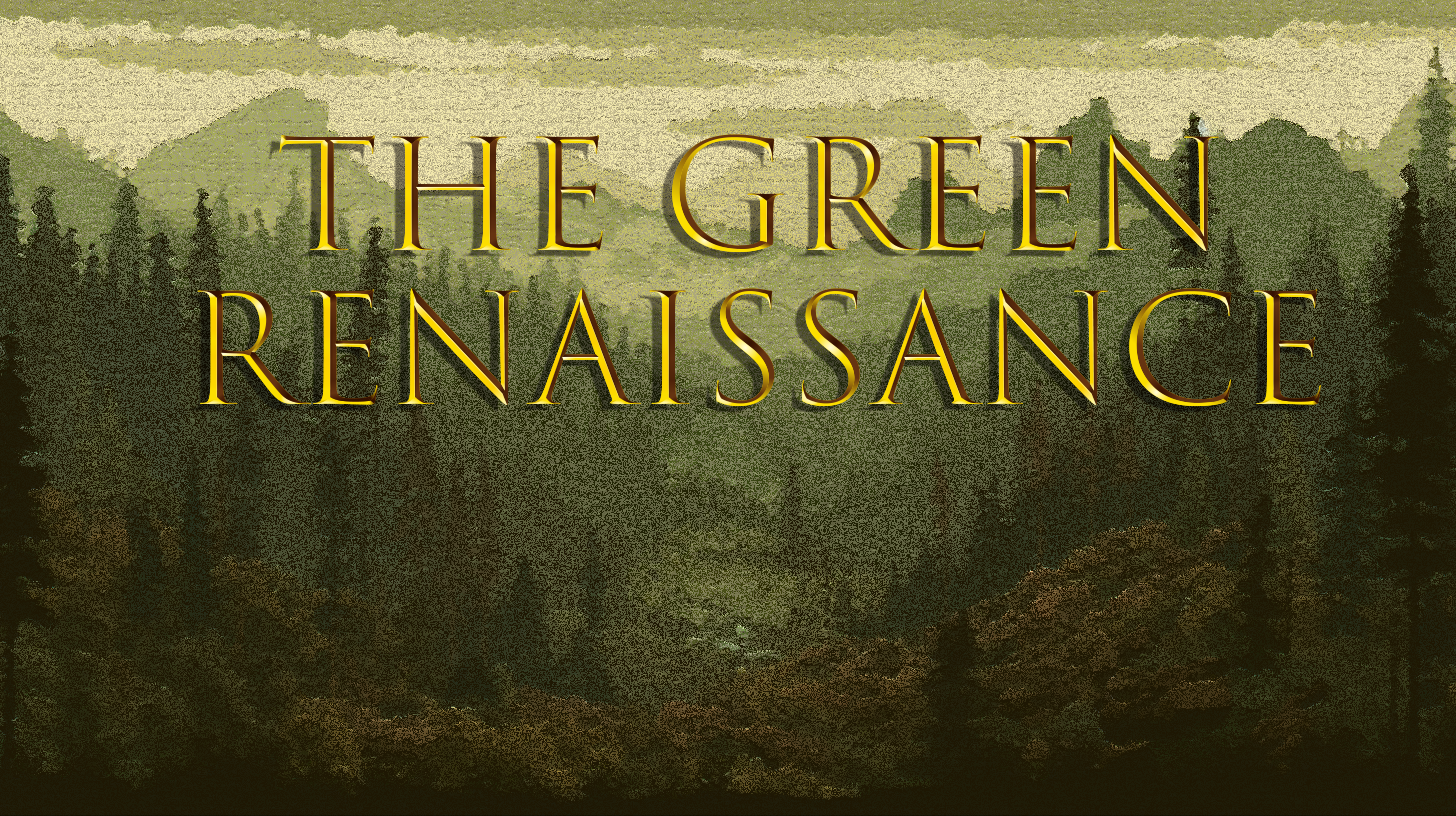
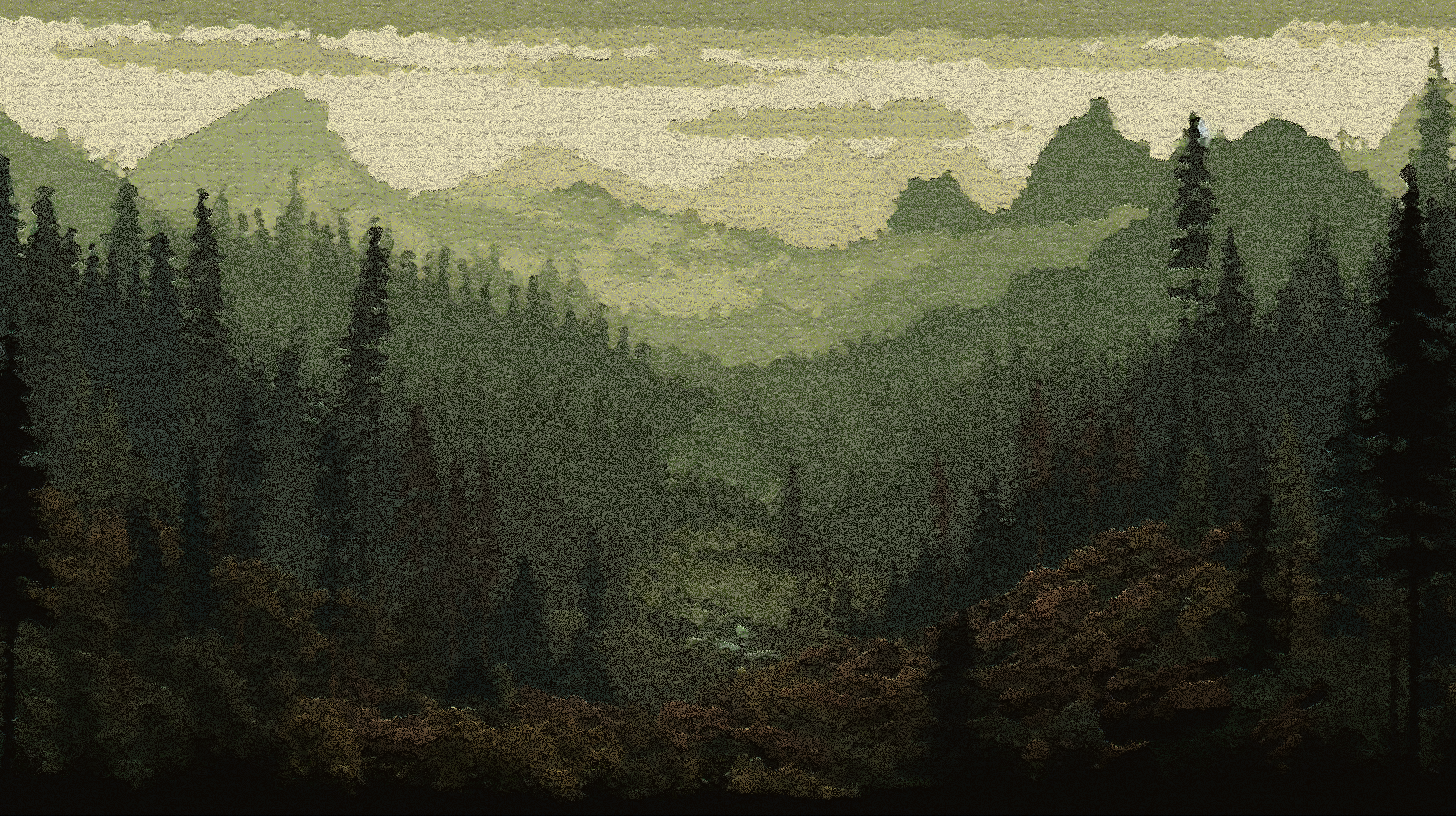
artwork

Changed region(s): [[0.1236, 0.1532, 0.9272, 0.5208]]

diff --git a/docs/lib/__test__/Items.test.js b/docs/lib/__test__/Items.test.js
@@ -1,0 +1,102 @@
+import {createMockP5, simulateKeyDown, simulateKeyPress, simulateKeyUp} from "./Persona5.js";
+import {tick} from "./Tick.js";
+import {Container} from "../../src/controller/Container.js";
+// --------------------------------------
+import {stageGroup, stateCode} from "../../src/model/GameState.js";
+import {PlayBoardLogic, PlayBoardModel} from "../../src/model/PlayBoard.js";
+import {InventoryLogic} from "../../src/model/Inventory.js";
+import {plantTypes, movableTypes, seedTypes, terrainTypes} from "../../src/items/ItemTypes.js";
+import {BoardLogic, BoardModel} from "../../src/model/BoardCells.js";
+
+let p;
+beforeAll(() => {
+    p = createMockP5();
+});
+
+/** @type {Container} */
+let container;
+
+/** @type {Controller} */
+let controller;
+
+/** @type {PlayBoardModel} */
+let playBoard;
+
+beforeEach(()=>{
+    container = new Container(p);
+    controller = container.controller;
+    container.gameState.state = stateCode.PLAY;
+    container.gameState.currentStageGroup = stageGroup.TSUNAMI;
+
+    let stagePackage ={
+        concreteBoardInit: (playBoard) => {
+            playBoard.stageGroup = stageGroup.TSUNAMI;
+            playBoard.stageNumbering = 1;
+            // grid parameters
+            playBoard.gridSize = 16;
+            [playBoard.cellWidth, playBoard.cellHeight] = container.utilityClass.relative2absolute(1 / 20, 4 / 45);
+
+            // board objects array
+            playBoard.boardObjects = new BoardModel(playBoard.gridSize);
+
+            // turn counter
+            playBoard.turn = 1;
+            playBoard.maxTurn = 30;
+
+            playBoard.fertilized = Array.from({length: playBoard.gridSize},
+                () => Array.from({length: playBoard.gridSize}, () => false));
+
+        },
+        setStageInventory: (p5, playBoard) => {
+            InventoryLogic.pushItem2Inventory(p5, plantTypes.PALM, 10, playBoard.gameState.inventory);
+            InventoryLogic.pushItem2Inventory(p5, plantTypes.PINE, 10, playBoard.gameState.inventory);
+            InventoryLogic.pushItem2Inventory(p5, plantTypes.CORN, 10, playBoard.gameState.inventory);
+            InventoryLogic.pushItem2Inventory(p5, plantTypes.ORCHID, 10, playBoard.gameState.inventory);
+            InventoryLogic.pushItem2Inventory(p5, plantTypes.FIRE_HERB, 10, playBoard.gameState.inventory);
+            InventoryLogic.pushItem2Inventory(p5, plantTypes.BAMBOO, 10, playBoard.gameState.inventory);
+            InventoryLogic.pushItem2Inventory(p5, plantTypes.PLUM, 10, playBoard.gameState.inventory);
+            InventoryLogic.pushItem2Inventory(p5, plantTypes.KIKU, 10, playBoard.gameState.inventory);
+
+            InventoryLogic.pushItem2Inventory(p5, seedTypes.PALM, 10, playBoard.gameState.inventory);
+            InventoryLogic.pushItem2Inventory(p5, seedTypes.PINE, 10, playBoard.gameState.inventory);
+            InventoryLogic.pushItem2Inventory(p5, seedTypes.CORN, 10, playBoard.gameState.inventory);
+            InventoryLogic.pushItem2Inventory(p5, seedTypes.ORCHID, 10, playBoard.gameState.inventory);
+            InventoryLogic.pushItem2Inventory(p5, seedTypes.FIRE_HERB, 10, playBoard.gameState.inventory);
+            InventoryLogic.pushItem2Inventory(p5, seedTypes.BAMBOO, 10, playBoard.gameState.inventory);
+            InventoryLogic.pushItem2Inventory(p5, seedTypes.PLUM, 10, playBoard.gameState.inventory);
+            InventoryLogic.pushItem2Inventory(p5, seedTypes.KIKU, 10, playBoard.gameState.inventory);
+        },
+        setStageTerrain: (p5, playBoard) => {
+            for (let i = 0; i < playBoard.gridSize; i++) {
+                for (let j = 0; j < playBoard.gridSize; j++) {
+                    if (j >= 8) {
+                        BoardLogic.setCell(i, j, container.terrainFactory.get(terrainTypes.DESERT)(), playBoard.boardObjects);
+                    } else {
+                        BoardLogic.setCell(i, j, container.terrainFactory.get(terrainTypes.SEA)(), playBoard.boardObjects);
+                    }
+                }
+            }
+            BoardLogic.setCell(8, 15, container.terrainFactory.get(terrainTypes.BASE)(), playBoard.boardObjects);
+            BoardLogic.setCell(7, 8, container.terrainFactory.get(terrainTypes.MOUNTAIN)(), playBoard.boardObjects);
+            BoardLogic.setCell(7, 9, container.terrainFactory.get(terrainTypes.BASE)(), playBoard.boardObjects);
+        },
+        nextTurnItems: (p5, playBoard) =>{},
+        modifyBoard: (p5, playBoard, code) => {},
+        setFloatingWindow: (p5, playBoard) =>{},
+        initAllFloatingWindows: (p5, playBoard)=>{
+            let afw = new Map();
+            container.utilityClass.commonFloatingWindows(p5, afw);
+            playBoard.allFloatingWindows = afw;
+        }
+    }
+    container.gameState.gsf.wiringUp(stagePackage, PlayBoardModel, PlayBoardLogic);
+    let mockPlayBoard = new PlayBoardModel(p, container.gameState);
+    container.gameState.currentStage = /** @type {PlayBoardLike} */ mockPlayBoard;
+    controller.menus[stateCode.PLAY] = mockPlayBoard;
+
+    tick(p, container, 10);
+})
+
+test('test', () => {
+
+})

diff --git a/docs/src/model/StartMenu.js b/docs/src/model/StartMenu.js
@@ -30,6 +30,7 @@ class StartMenuModel {
         this.allFloatingWindows = null;
 
         this.backgroundImg = null;
+        this.titleImg = null;
 
         // fade in fade out render
         this.fade = 0;
@@ -50,6 +51,9 @@ class StartMenuModel {
     }
 
     init() {
+        this.backgroundImg = StartMenuModel.p5.images.get("TitleBackground");
+        this.titleImg = StartMenuModel.p5.images.get("TitleBanner");
+
         let [buttonWidth, buttonHeight] = StartMenuModel.utilityClass.relative2absolute(0.15, 0.07);
         let [buttonX, buttonY] = StartMenuModel.utilityClass.relative2absolute(0.2, 0.6);
         let buttonInter = StartMenuModel.utilityClass.relative2absolute(0.1, 0.1)[1];
@@ -85,7 +89,7 @@ class StartMenuModel {
         this.allFloatingWindows = afw;
     }
 
-    shift2Gamepad(p5){
+    shift2Gamepad(p5) {
         p5.noCursor();
         this.buttons.forEach(button => {
             button.mode = "gamepad";
@@ -127,11 +131,13 @@ class StartMenuRenderer {
      * @param {StartMenuModel} startMenu
      */
     static draw(p5, startMenu) {
-        if(!startMenu.backgroundImg){
-            startMenu.backgroundImg = p5.images.get("TitleBackground");
-        }
         let canvasSize = StartMenuRenderer.utilityClass.relative2absolute(1, 1);
         p5.image(startMenu.backgroundImg, 0, 0, canvasSize[0], canvasSize[1]);
+        let ratio = startMenu.titleImg.height / startMenu.titleImg.width;
+        let titlePos = StartMenuRenderer.utilityClass.relative2absolute(0.2, 0.1);
+        let targetWidth = StartMenuRenderer.utilityClass.relative2absolute(0.6, 0.2)[0];
+        let targetHeight = ratio * targetWidth;
+        p5.image(startMenu.titleImg, titlePos[0], titlePos[1], targetWidth, targetHeight);
         p5.fill(255);
 
         for (let button of startMenu.buttons) {
@@ -162,24 +168,25 @@ class StartMenuLogic {
         StartMenuLogic.ScreenLogic = bundle.ScreenLogic;
     }
 
-    static cancel(){}
+    static cancel() {
+    }
 
     /**
      *
      * @param index
      * @param {StartMenuModel} startMenu
      */
-    static handleGamepad(index, startMenu){
+    static handleGamepad(index, startMenu) {
         switch (index) {
             case 12:
                 startMenu.buttons[startMenu.index].isSelected = false;
-                if (startMenu.index === 0) startMenu.index =startMenu.buttons.length-1;
+                if (startMenu.index === 0) startMenu.index = startMenu.buttons.length - 1;
                 else startMenu.index--;
                 startMenu.buttons[startMenu.index].isSelected = true;
                 break;
             case 13:
                 startMenu.buttons[startMenu.index].isSelected = false;
-                if (startMenu.index === startMenu.buttons.length-1) startMenu.index = 0;
+                if (startMenu.index === startMenu.buttons.length - 1) startMenu.index = 0;
                 else startMenu.index++;
                 startMenu.buttons[startMenu.index].isSelected = true;
                 break;
@@ -197,15 +204,14 @@ class StartMenuLogic {
      * @param startMenu
      */
     static handleAnalogStickPressed(axes, startMenu) {
-        if(axes[1] < 0){
+        if (axes[1] < 0) {
             startMenu.buttons[startMenu.index].isSelected = false;
-            if (startMenu.index === 0) startMenu.index = startMenu.buttons.length-1;
+            if (startMenu.index === 0) startMenu.index = startMenu.buttons.length - 1;
             else startMenu.index--;
             startMenu.buttons[startMenu.index].isSelected = true;
-        }
-        else{
+        } else {
             startMenu.buttons[startMenu.index].isSelected = false;
-            if (startMenu.index === startMenu.buttons.length-1) startMenu.index = 0;
+            if (startMenu.index === startMenu.buttons.length - 1) startMenu.index = 0;
             else startMenu.index++;
             startMenu.buttons[startMenu.index].isSelected = true;
         }
@@ -267,7 +273,7 @@ class StartMenuLogic {
         startMenu.floatingWindow = /** @type {FloatingWindow} */ StartMenuLogic.FloatingWindow.copyOf(startMenu.allFloatingWindows.get(str));
     }
 
-    static resize(startMenu){
+    static resize(startMenu) {
         let [buttonWidth, buttonHeight] = StartMenuLogic.utilityClass.relative2absolute(0.15, 0.07);
         let [buttonX, buttonY] = StartMenuLogic.utilityClass.relative2absolute(0.2, 0.6);
         let buttonInter = StartMenuLogic.utilityClass.relative2absolute(0.1, 0.1)[1];

diff --git a/docs/src/items/Tornado.js b/docs/src/items/Tornado.js
@@ -176,7 +176,6 @@ class TornadoLogic {
             if (cell.terrain.terrainType === TornadoLogic.terrainTypes.MOUNTAIN) {
                 tornado.status = false;
                 TornadoLogic.InteractionLogic.findMovableAndDelete(playBoard, tornado);
-                console.log("return1")
                 return;
             }
 
@@ -193,7 +192,6 @@ class TornadoLogic {
             if (trees.length > 0) {
                 let luckyTree = trees[Math.floor(Math.random() * trees.length)];
                 TornadoLogic.plantAttackedByTornado(playBoard, luckyTree, tornado);
-                console.log("return2")
                 return;
             }
 

diff --git a/docs/src/controller/KeyboardHandler.js b/docs/src/controller/KeyboardHandler.js
@@ -50,7 +50,6 @@ class KeyboardHandler {
                 }
                 // to dev team: quick skip current stage
                 if (event.key === "c" && !playBoard.skip) {
-                    console.log();
                     playBoard.skip = true;
                     KeyboardHandler.PlayBoardLogic.stageClearSettings(p5, playBoard);
                     playBoard.gameState.isFading = true;

diff --git a/docs/lib/__test__/StartMenu.test.js b/docs/lib/__test__/StartMenu.test.js
@@ -22,7 +22,6 @@ beforeEach(() => {
     container = new Container(p);
     controller = container.controller;
     startMenu = container.startMenu;
-    //startMenu.buttons.forEach(button => console.log(`x: ${button.x}, y: ${button.y}, width: ${button.width}, height: ${button.height}`));
 })
 
 test('test new game button, entered game map then quit to menu', () => {

diff --git a/docs/src/Preloader.js b/docs/src/Preloader.js
@@ -58,6 +58,8 @@ function loadImages(p5) {
     images.set("TsunamiIcon", p5.loadImage(basePath + "TsunamiIcon.png"));
 
     images.set("TitleBackground", p5.loadImage(basePath + "TitleBackground.png"));
+    images.set("TitleBanner", p5.loadImage(basePath + "TitleBanner.png"));
+
     return images;
 }
 

diff --git a/docs/src/model/GameMap.js b/docs/src/model/GameMap.js
@@ -411,7 +411,6 @@ class GameMapLogic {
 
     static resize(gameMap) {
         let size = GameMapModel.utilityClass.relative2absolute(0.05, 0.05)[0];
-        console.log(size)
         for (let i = 0; i < gameMap.buttons.length; i++) {
             let xRatio;
             let yRatio;
